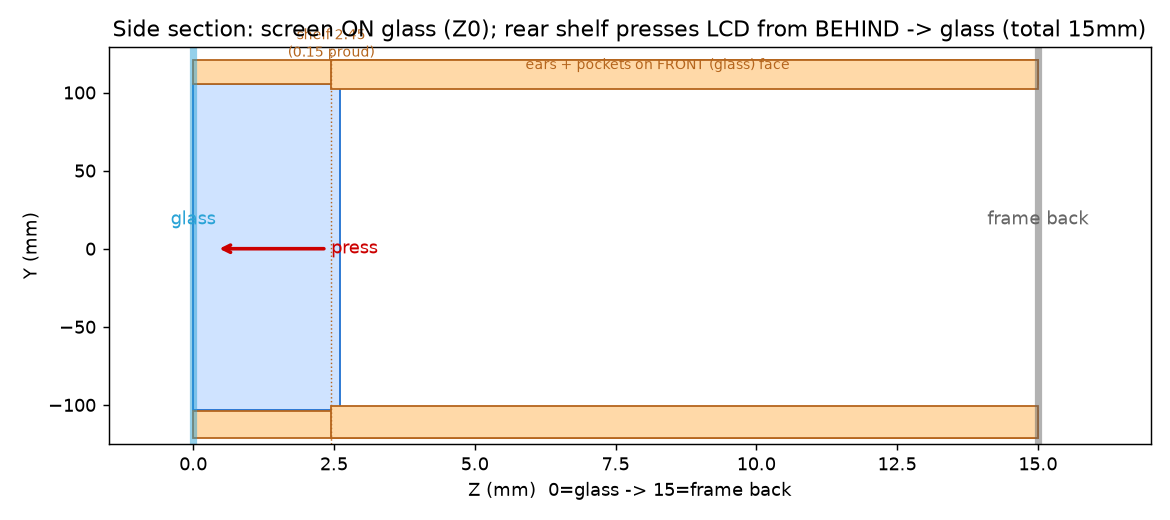
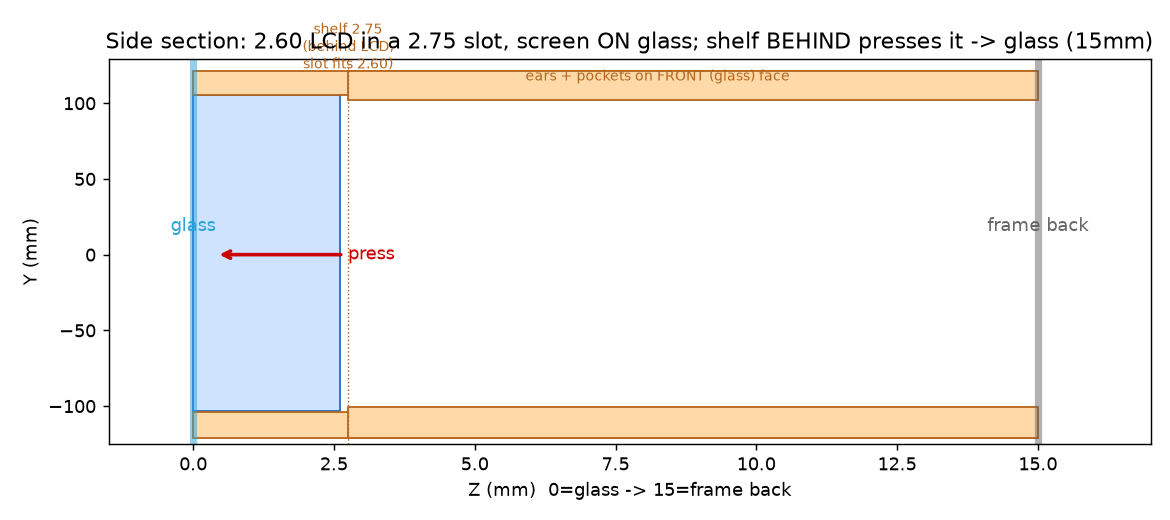
Brackets: fix slot too narrow + shallow ear pockets + MIRROR_X test
Fit-test of the thin top exposed two bugs:
- Panel slot was 2.45mm (shelf TH-PRELOAD), narrower than the 2.60 LCD -> panel
  could not enter. Replace PRELOAD with SLOT_CLR=0.15: slot = TH+SLOT_CLR=2.75,
  shelf now sits entirely BEHIND the LCD; frame backing presses bracket->LCD->glass.
- Ear pockets were 2.0mm deep; ears are recessed only ~0.25mm -> EAR_Z=0.7 shallow,
  near-flush.
Add MIRROR_X toggle + bracket_top_thin_mir.stl (X-mirrored thin top) to settle
the handedness question empirically. Updated scad, verify, README.

diff --git a/build_brackets.py b/build_brackets.py
@@ -10,9 +10,10 @@ shifted (+1.30,+0.89)).
 Frame coords here: origin = frame center, X right, Y up, Z = 0 at the glass, +Z back into
 the cavity. Each bracket is an L / back-press section (no front lip — the screen sits flat on
 the glass):
-  web front at Z 0 on the glass | panel zone (Z 0..TH) open | rear shelf (Z TH-PRELOAD..TOTAL_Z).
-The rear shelf sits PRELOAD proud of the panel rear, so the frame backing pushes it -> LCD onto
-the glass (push from behind). The back face (Z=TOTAL_Z) bottoms on the frame backing.
+  web front at Z 0 on the glass | panel slot (Z 0..TH+SLOT_CLR) open | rear shelf (Z TH+SLOT_CLR..TOTAL_Z).
+The slot fits the 2.60 panel (TH + SLOT_CLR); the rear shelf sits entirely BEHIND the panel, so the
+frame backing pushes the bracket -> shelf -> LCD onto the glass (push from behind). The back face
+(Z=TOTAL_Z) bottoms on the frame backing.
 
 The lug ears are on the LCD FRONT, recessed ~0.25 mm (tabs at Z ~0.25..0.55, toward the glass),
 so their clearance pockets are cut on the FRONT face. That shape-keys the part: it only seats with
@@ -37,18 +38,19 @@ SHIFT_X = -ACT["cx"] if VIEW_CENTER else 0.0                # +1.30
 SHIFT_Y = -ACT["cy"] if VIEW_CENTER else 0.0                # +0.89
 
 TOTAL_Z = 15.0          # bracket thickness (glass -> frame backing) = cavity depth
-PRELOAD = 0.15          # rear shelf sits this proud of the panel rear -> light forward press
+SLOT_CLR = 0.15         # Z clearance: panel slot = TH + SLOT_CLR (shelf sits BEHIND the panel)
 LIP_Y   = 3.0           # how far the rear shelf overhangs onto the panel border
 FIT_CLR = 0.2           # friction: bracket length = FRAME_W - FIT_CLR
 SEAT_CLR = 0.1          # play between panel edge and channel web
 POCKET_CLR = 0.3        # play between panel corner and the X end-stops
 EAR_CLR = 1.5           # margin around an ear pocket (X + Y)
 EAR_ON_BACK = False     # lug ears are on the LCD FRONT (recessed ~0.25mm) -> clear them on the front
-EAR_Z   = 2.0           # front pocket depth from the glass (clears the ~0.25..0.55 front ear tabs)
+EAR_Z   = 0.7           # shallow front pocket depth (clears the ~0.25..0.55 recessed front ear tabs)
+MIRROR_X = False        # negate all X (ear spans + SHIFT_X) if the panel is handed the other way
 THIN_Z  = 5.0           # thickness of the thin test-print variants
 
 LX = (FRAME_W - FIT_CLR) / 2                                 # half bracket length in X
-FLANGE_Z0 = TH - PRELOAD                                     # rear shelf front face (2.45)
+FLANGE_Z0 = TH + SLOT_CLR                                    # rear shelf front face (2.75) - behind the panel
 
 
 def b(x0, x1, y0, y1, z0, z1):
@@ -65,8 +67,9 @@ def ear_span(name):
     return min(xs), max(xs), min(ys), max(ys)
 
 
-def make_bracket(side, tz=TOTAL_Z):
-    """side = +1 top, -1 bottom. tz = total Z thickness (full or thin)."""
+def make_bracket(side, tz=TOTAL_Z, mirror=MIRROR_X):
+    """side = +1 top, -1 bottom. tz = total Z thickness. mirror = negate X (handedness)."""
+    sx = -SHIFT_X if mirror else SHIFT_X         # panel X offset (active centering), mirrored if needed
     edgeY = side * (HH + side * SHIFT_Y)         # panel short edge in frame Y (top +105.33 / bottom -103.55)
     # gap-side ordering helpers (work in 'outboard' = away from center)
     wallY = side * HFH                            # frame end wall (+121 / -121)
@@ -77,9 +80,9 @@ def make_bracket(side, tz=TOTAL_Z):
     def yspan(a, c):                              # return (lo,hi) regardless of side
         return (min(a, c), max(a, c))
 
-    # X end-stops that locate the panel (centered on SHIFT_X)
-    stopL = SHIFT_X - HW - POCKET_CLR
-    stopR = SHIFT_X + HW + POCKET_CLR
+    # X end-stops that locate the panel (centered on sx)
+    stopL = sx - HW - POCKET_CLR
+    stopR = sx + HW + POCKET_CLR
 
     parts = []
     # 1. web / gap filler: full length, full Z, web inner face -> frame wall (front at Z0 on glass)
@@ -89,7 +92,7 @@ def make_bracket(side, tz=TOTAL_Z):
     yl, yh = yspan(lipInnerY, webInnerY)
     parts.append(b(-LX, stopL, yl, yh, 0, tz))
     parts.append(b(stopR, LX, yl, yh, 0, tz))
-    # 3. rear shelf behind the panel border (front face PRELOAD proud of the panel rear) -> presses LCD to glass
+    # 3. rear shelf BEHIND the panel border (front face at TH+SLOT_CLR) -> frame backing presses it -> LCD to glass
     parts.append(b(stopL, stopR, yl, yh, FLANGE_Z0, tz))
 
     br = parts[0]
@@ -103,6 +106,8 @@ def make_bracket(side, tz=TOTAL_Z):
     ears = ["TL", "TR"] if side > 0 else ["BL", "BR"]
     for e in ears:
         exmin, exmax, eymin, eymax = ear_span(e)
+        if mirror:                               # negate + swap the X span
+            exmin, exmax = -exmax, -exmin
         tipY = (eymax if side > 0 else eymin) + SHIFT_Y
         yl, yh = yspan(edgeY - side * 2.0, tipY + side * EAR_CLR)
         cut = b(exmin - EAR_CLR, exmax + EAR_CLR, yl, yh, z0, z1)
@@ -119,7 +124,12 @@ for name, side in [("bracket_top", +1), ("bracket_bottom", -1)]:
     cq.exporters.export(br, name + ".step")
     cq.exporters.export(br, name + ".stl")
     print(f"  wrote {name}.step + {name}.stl")
-    # thin test-print variant (same XY/fit/preload/ear pockets, shorter Z)
+    # thin test-print variant (same XY/fit/slot/ear pockets, shorter Z)
     thin = make_bracket(side, THIN_Z)
     cq.exporters.export(thin, name + "_thin.stl")
     print(f"  wrote {name}_thin.stl  (Z={THIN_Z})")
+
+# mirrored thin top for the handedness fit-test (X-flipped ear pockets)
+mir = make_bracket(+1, THIN_Z, mirror=not MIRROR_X)
+cq.exporters.export(mir, "bracket_top_thin_mir.stl")
+print(f"  wrote bracket_top_thin_mir.stl  (Z={THIN_Z}, X-mirrored vs the normal thin top)")

diff --git a/verify_brackets.py b/verify_brackets.py
@@ -19,10 +19,10 @@ HFW, HFH = FRAME_W / 2, FRAME_H / 2
 VIEW_CENTER = True
 SHIFT_X = -ACT["cx"] if VIEW_CENTER else 0.0
 SHIFT_Y = -ACT["cy"] if VIEW_CENTER else 0.0
-TOTAL_Z, PRELOAD, LIP_Y = 15.0, 0.15, 3.0
-FIT_CLR, SEAT_CLR, POCKET_CLR, EAR_CLR, EAR_Z = 0.2, 0.1, 0.3, 1.5, 2.0
+TOTAL_Z, SLOT_CLR, LIP_Y = 15.0, 0.15, 3.0
+FIT_CLR, SEAT_CLR, POCKET_CLR, EAR_CLR, EAR_Z = 0.2, 0.1, 0.3, 1.5, 0.7
 LX = (FRAME_W - FIT_CLR) / 2
-FLANGE_Z0 = TH - PRELOAD
+FLANGE_Z0 = TH + SLOT_CLR
 
 
 def ear_span(name):
@@ -86,7 +86,7 @@ ax.text(TOTAL_Z, TOTAL_Z + 0.6, "frame back", color="0.4", ha="center")
 pTop, pBot = HH + SHIFT_Y, -(HH - SHIFT_Y)
 ax.add_patch(Rectangle((0, pBot), TH, pTop - pBot, fc="#cfe3ff", ec="#1f6fd0", label="panel"))
 ax.axvline(FLANGE_Z0, color="#b5651d", lw=0.8, ls=":")
-ax.text(FLANGE_Z0, HFH + 2, f"shelf {FLANGE_Z0:.2f}\n(0.15 proud)", color="#b5651d", ha="center", fontsize=8)
+ax.text(FLANGE_Z0, HFH + 2, f"shelf {FLANGE_Z0:.2f}\n(behind LCD,\nslot fits 2.60)", color="#b5651d", ha="center", fontsize=8)
 for side in (+1, -1):
     edgeY = side * (HH + side * SHIFT_Y)
     webInnerY = edgeY + side * SEAT_CLR; lipInnerY = edgeY - side * LIP_Y; wallY = side * HFH
@@ -102,6 +102,6 @@ ax.annotate("press", xy=(0.4, 0), xytext=(FLANGE_Z0, 0),
 ax.text(TOTAL_Z * 0.55, HFH - 6, "ears + pockets on FRONT (glass) face", color="#b5651d", ha="center", fontsize=8)
 ax.set_xlim(-1.5, TOTAL_Z + 2); ax.set_ylim(-HFH - 4, HFH + 8)
 ax.set_xlabel("Z (mm)  0=glass -> 15=frame back"); ax.set_ylabel("Y (mm)")
-ax.set_title("Side section: screen ON glass (Z0); rear shelf presses LCD from BEHIND -> glass (total 15mm)")
+ax.set_title("Side section: 2.60 LCD in a 2.75 slot, screen ON glass; shelf BEHIND presses it -> glass (15mm)")
 fig.tight_layout(); fig.savefig("images/brackets_section.png", dpi=130); plt.close(fig)
 print("wrote images/brackets_section.png")

diff --git a/README.md b/README.md
@@ -65,6 +65,7 @@ protruding **~1.2 mm behind** the rear face (Z −1.20..0) — footprint approxi
 | `bracket_top.step` / `.stl` | top photo-frame mounting bracket (3D print) |
 | `bracket_bottom.step` / `.stl` | bottom photo-frame mounting bracket (3D print) |
 | `bracket_top_thin.stl` / `bracket_bottom_thin.stl` | 5 mm-thick test-print variants (same XY/fit) |
+| `bracket_top_thin_mir.stl` | X-mirrored thin top for the handedness fit-test |
 | `build_brackets.py` | builds the two brackets from `geometry.json` + frame params (cadquery) |
 | `brackets.scad` | parametric OpenSCAD source for the brackets |
 | `verify_brackets.py` | assembly + side-section check images for the brackets |
@@ -98,8 +99,9 @@ OpenSCAD: `openscad -o lcd_panel.stl lcd_panel.scad`.
 Two **3D-printable back-press brackets** that hold the panel **centered in a photo frame** whose
 inner cavity is **182 (W) × 242 (H) mm**. They sit on the panel's **short sides** (top + bottom),
 friction-fit between the frame side walls. There is **no lip in front of the panel** — the screen
-sits **flat on the frame glass**; a rear shelf set **0.15 mm proud** of the panel rear is pushed by
-the frame backing, holding the LCD lightly against the glass.
+sits **flat on the frame glass**; the panel slides into a **2.75 mm slot** (2.60 LCD + 0.15) with the
+rear shelf **behind** it, and the frame backing pushes the bracket so the shelf presses the LCD onto
+the glass.
 
 They **center the VIEW (active) area, not the outline.** The active area is offset from the
 outline center by (−1.30, −0.89), so the panel is shifted (+1.30, +0.89) and the brackets are
@@ -112,8 +114,8 @@ sized to suit — the image lands in the frame center.
 | Bottom-bracket gap (Y-depth) | **17.45 mm** |
 | Left / right gap (open, no bracket) | 8.74 / 6.14 mm |
 | Bracket length (X, friction) | 181.8 mm (182 − 0.2) |
-| Total thickness (Z) | 15.0 mm (front on glass; rear shelf 2.45 → 15) |
-| Rear shelf preload | 0.15 mm proud of the 2.60 panel rear |
+| Total thickness (Z) | 15.0 mm (screen on glass; rear shelf 2.75 → 15) |
+| Panel slot (Z) | 2.75 mm = 2.60 LCD + 0.15 clearance; shelf sits **behind** the LCD |
 | Rear shelf overhang onto border | 3.0 mm (clear of the active area) |
 
 Check: 15.67 + 208.88 + 17.45 = 242.0 ✓. The lug ears are on the LCD **front** (recessed ~0.25 mm),
@@ -123,16 +125,18 @@ which keeps the rear shelf behind the LCD, pressing it **from behind onto the gl
 brackets are **different parts** (gaps and ear pockets differ).
 
 **Thin test-print variants** (`bracket_top_thin.stl`, `bracket_bottom_thin.stl`, Z = 5 mm) have the
-same XY, fit, preload and ear pockets — print one fast/cheap to check orientation + friction before
-committing to the full 15 mm part.
+same XY/fit/slot/ear pockets — print one fast/cheap to check fit + orientation before the full 15 mm
+part. `bracket_top_thin_mir.stl` is the **X-mirrored** thin top: if the ear pockets don't line up with
+your panel, the mirror will — then set `MIRROR_X=True` for the full build.
 
 ![bracket assembly](images/brackets_assembly.png)
 ![bracket section](images/brackets_section.png)
 
 **Print:** PLA/PETG, lay flat — no supports. **Tune the fit** at the top of `build_brackets.py` /
-`brackets.scad`: `FIT_CLR` (frame friction), `SEAT_CLR`/`POCKET_CLR` (panel play), `PRELOAD`
-(forward press — raise for firmer glass contact), `LIP_Y` (rear-shelf grip). `VIEW_CENTER=False`
-centers the outline instead (equal 16.56 mm gaps).
+`brackets.scad`: `FIT_CLR` (frame friction), `SEAT_CLR`/`POCKET_CLR` (panel play), `SLOT_CLR`
+(panel slot Z — lower for tighter glass contact, raise if the LCD is tight), `EAR_Z` (front ear-pocket
+depth), `LIP_Y` (rear-shelf grip), `MIRROR_X` (flip handedness). `VIEW_CENTER=False` centers the
+outline instead (equal 16.56 mm gaps).
 
 **Assemble:** lay the frame face-down on the glass, drop the panel in screen-first (it rests on the
 glass). Push the top + bottom brackets into the end gaps **ear-pockets toward the glass** (the front